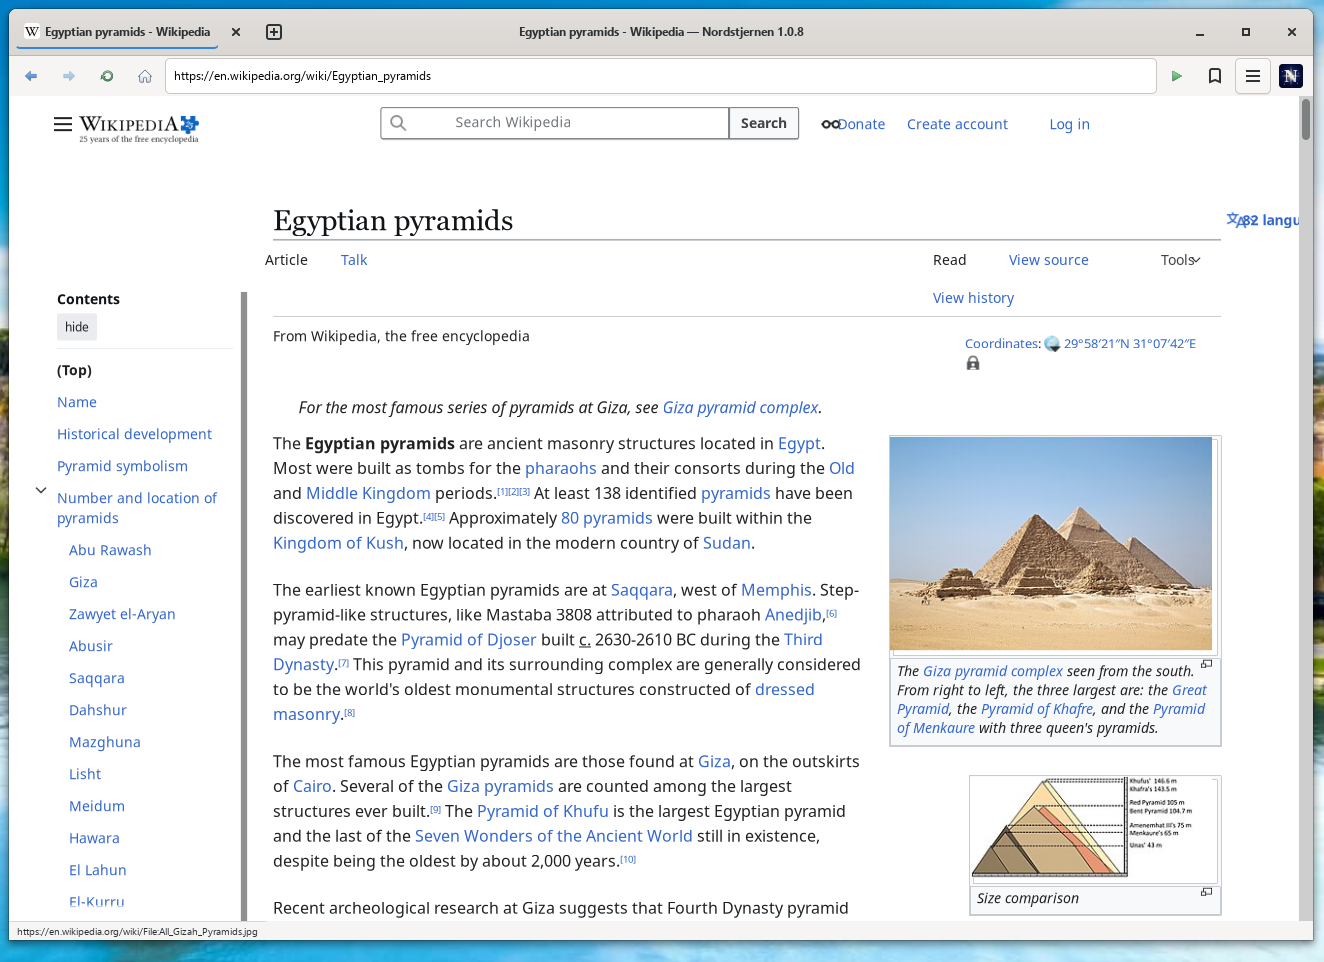
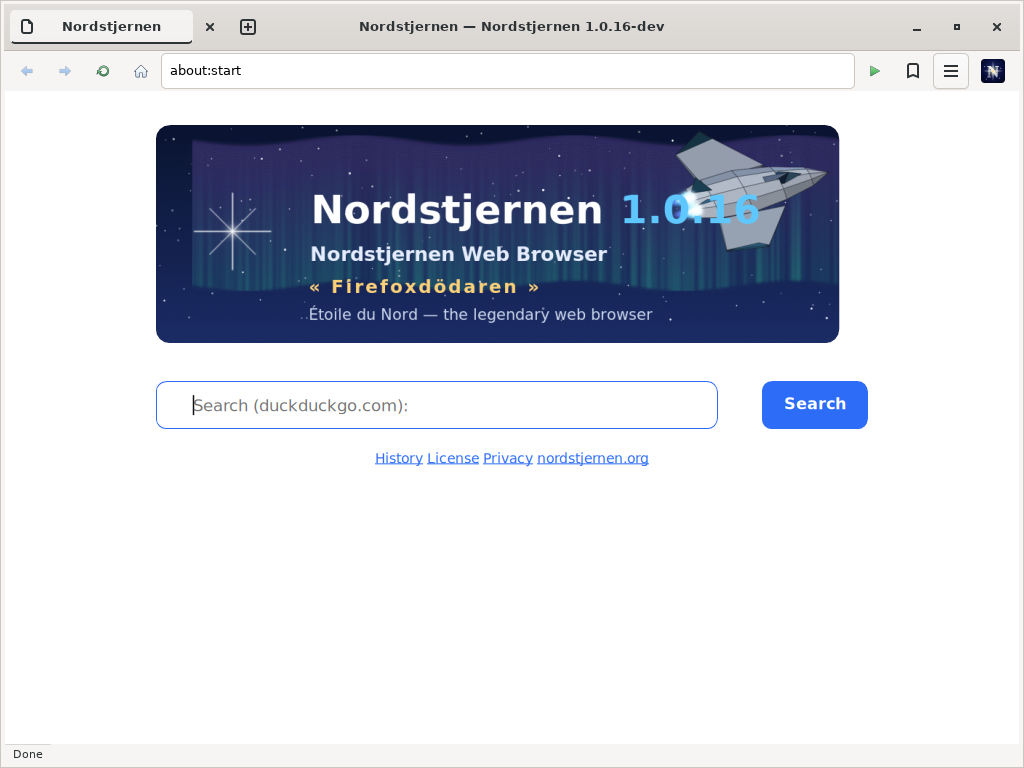
docs: refresh the README screenshot with the about:start start page
Replace the screenshot with a full-window capture of the about:start start
page showing the redesigned Étoile du Nord splash, and correct the caption
to match what the image shows.

diff --git a/README.md b/README.md
@@ -15,7 +15,7 @@ Runs on the platforms [Windows](https://apps.microsoft.com/detail/9nw8t7w5z4pl) 
 
 Nordstjernen has no JIT so it is much more secure, and can still be fast enough. It ships no telemetry of any kind.
 
-![Nordstjernen start page — chatting with the local AI assistant](docs/screenshot.png)   
+![Nordstjernen's about:start start page — the Étoile du Nord splash](docs/screenshot.png)   
 
 <img src="docs/nordstjernen-now.png" alt="Nordstjernen Now!" width="140">
 
